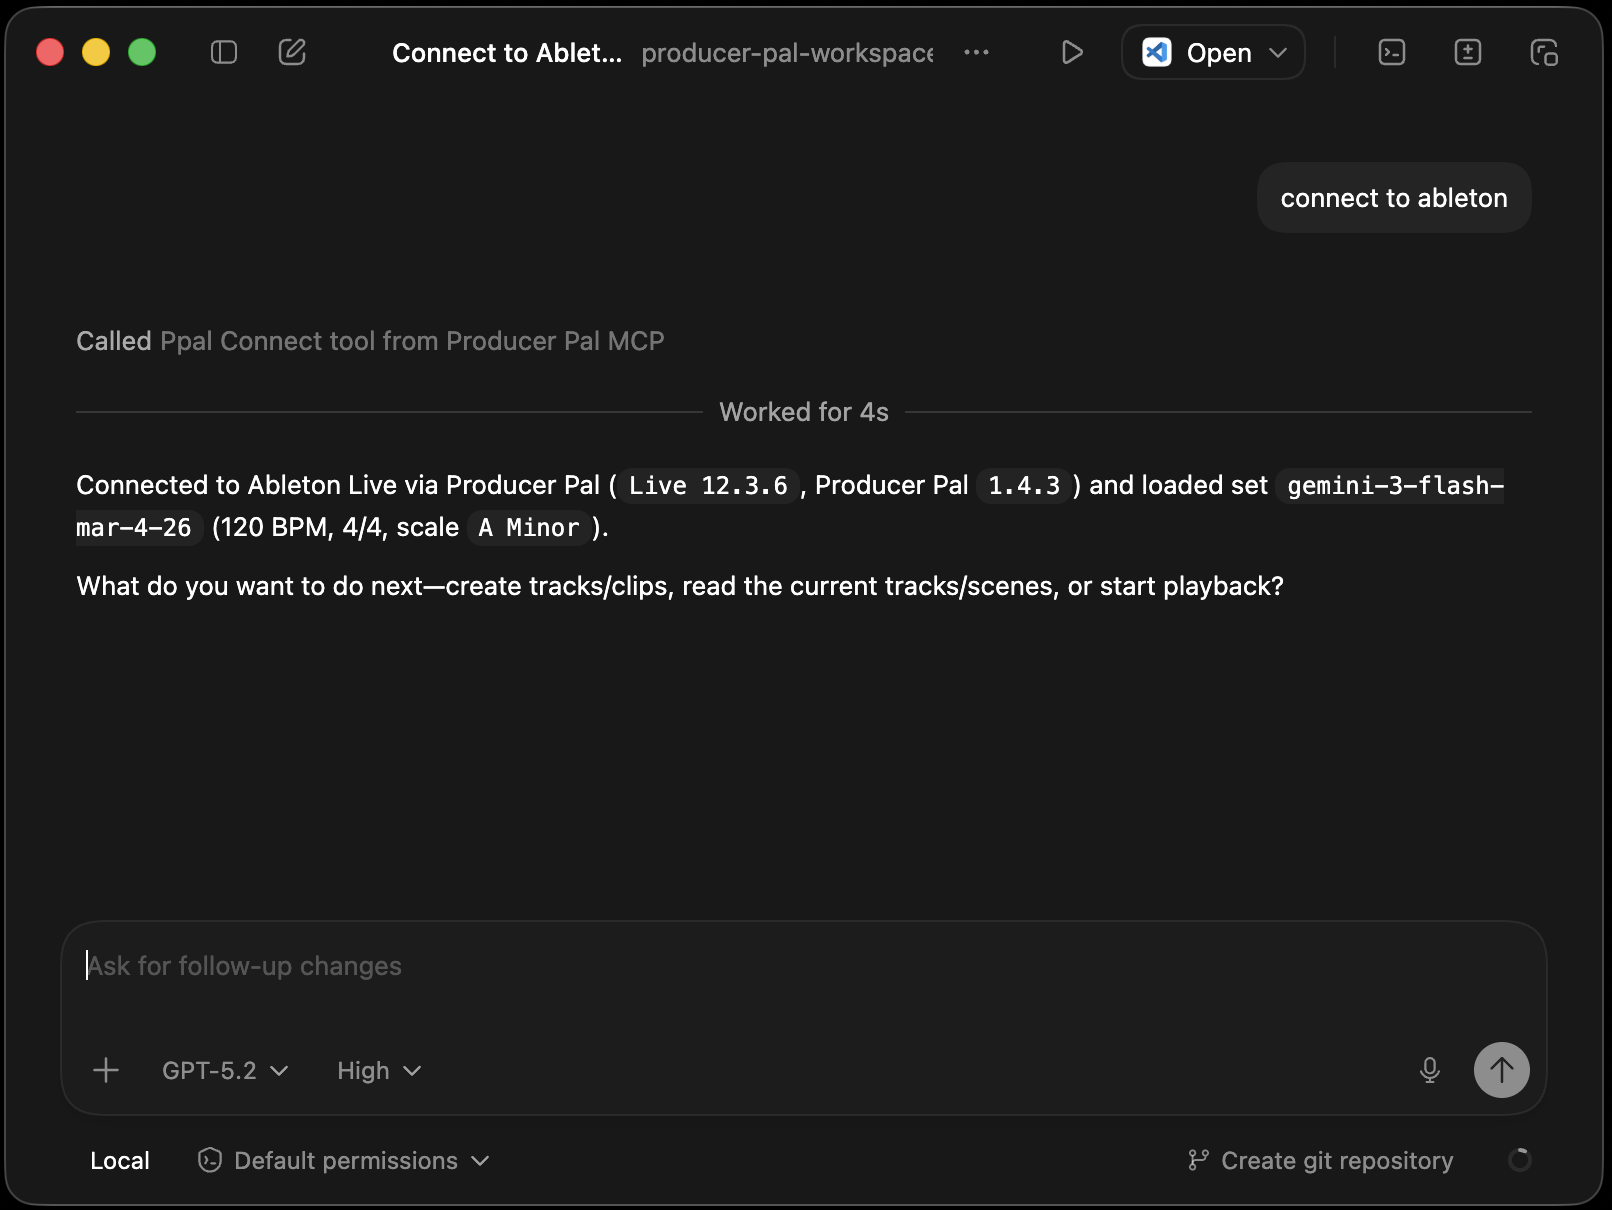
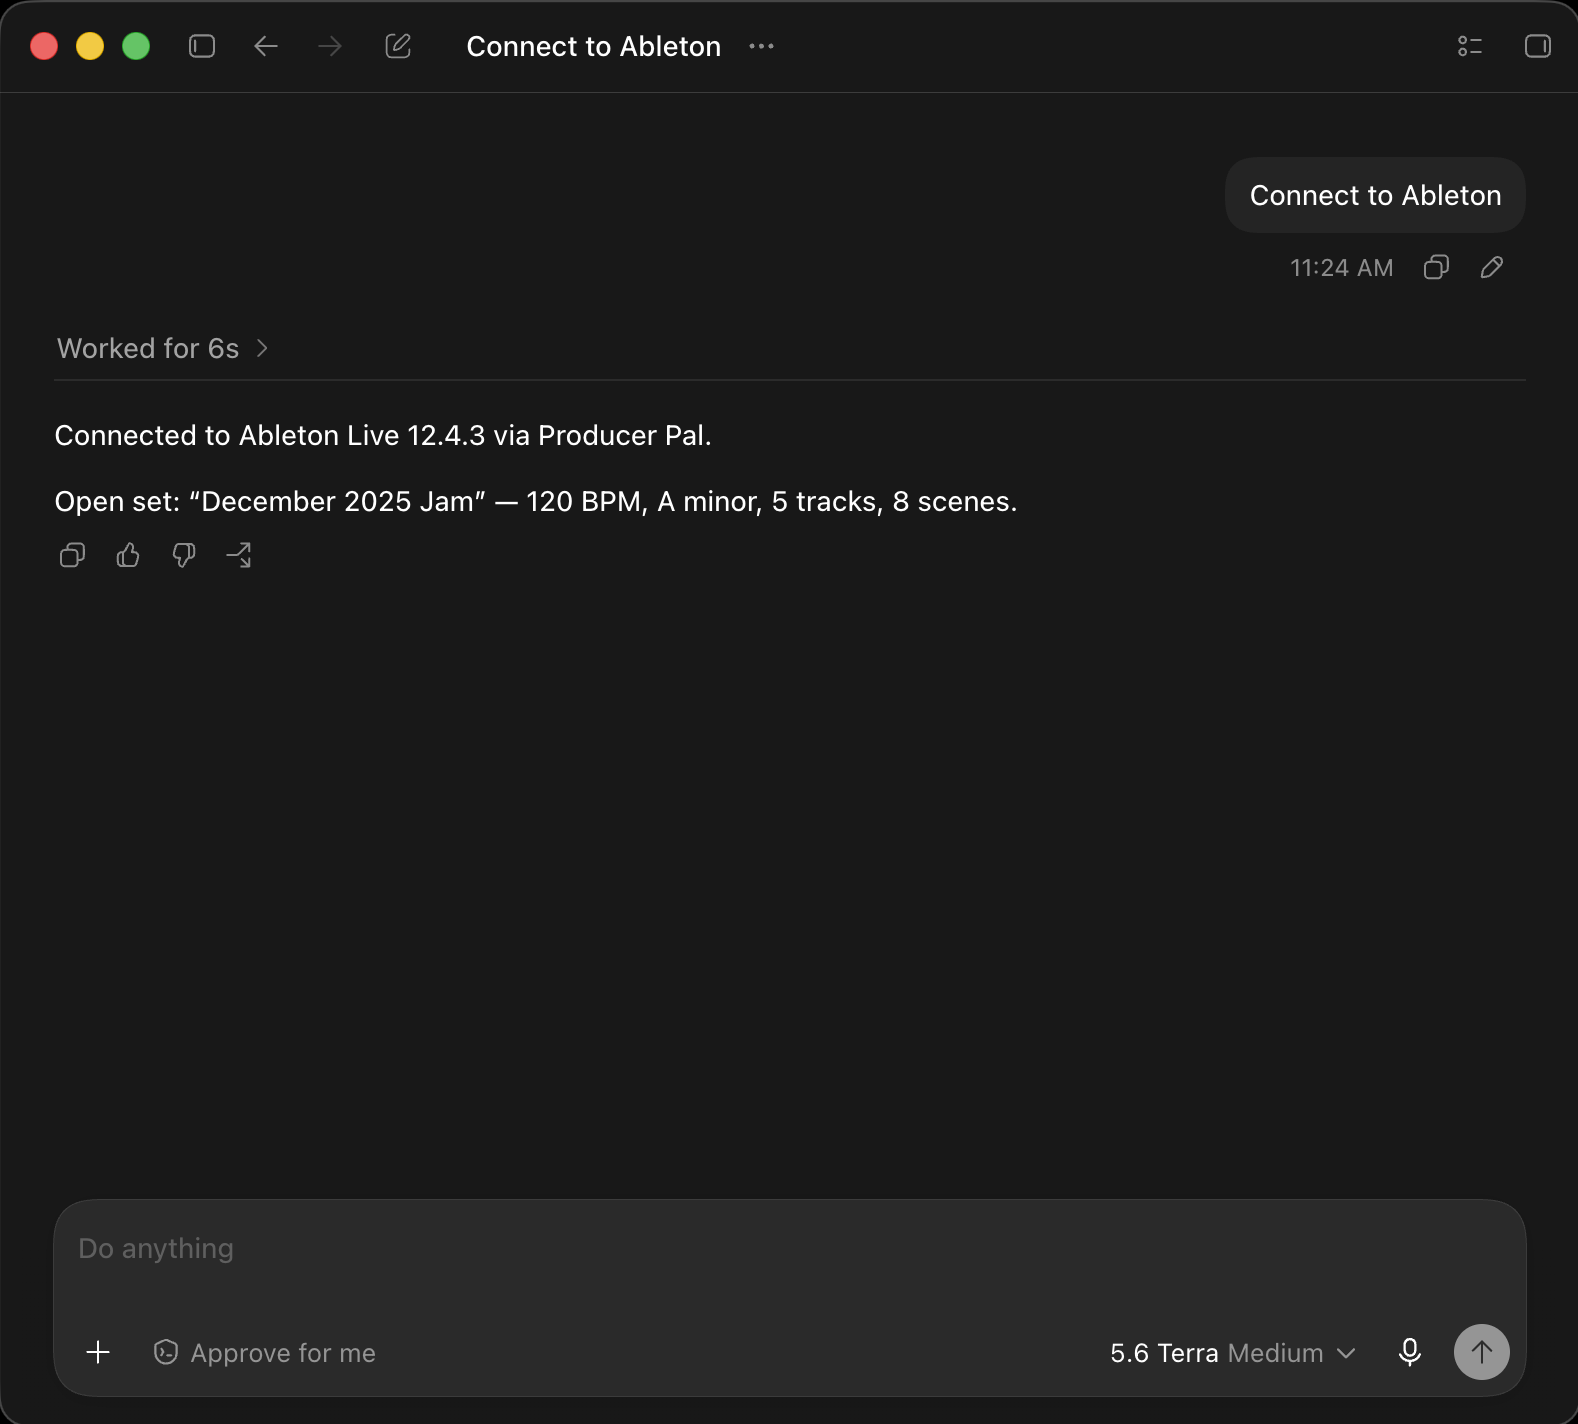
docs: update the ChatGPT app page for the unified desktop app
Producer Pal only works in the app's Codex mode — MCP servers live on the Codex
side and the tools aren't reachable from ChatGPT (Chat or Work). Lead with that,
and rewrite the setup around Codex: the mode dropdown, the Choose project
picker, and fresh conversation screenshots.

Also note that the download page offers ChatGPT Classic alongside the new app,
and that MCP servers need a paid plan.

diff --git a/docs/installation/chatgpt-app.md b/docs/installation/chatgpt-app.md
@@ -3,11 +3,22 @@
 OpenAI's ChatGPT desktop app is an easy way to use Producer Pal with an OpenAI
 account.
 
+::: warning Use Codex mode, not ChatGPT
+
+Producer Pal only works in the app's **Codex** mode. MCP servers are configured
+on the Codex side, and the tools aren't reachable from ChatGPT (Chat or Work).
+Switch with the mode dropdown at the top of the sidebar:
+
+<img src="/img/chatgpt-app-codex-mode.png" alt="Switching to Codex mode" width="300"/>
+
+:::
+
 ::: info Formerly the Codex app
 
 In July 2026, OpenAI merged the Codex app into the ChatGPT desktop app, which
-now has Chat, Work, and Codex together in one app. If you had the Codex app
-installed, it updated into this app and kept your projects and settings.
+now has ChatGPT (Chat and Work) and Codex together in one app. If you had the
+Codex app installed, it updated into this app and kept your projects and
+settings.
 
 The older ChatGPT desktop app is now called "ChatGPT Classic". Setup there is
 similar, but it's no longer officially supported — the new app is recommended.
@@ -28,12 +39,9 @@ The ChatGPT desktop app runs on macOS (Apple Silicon) and Windows. On Linux, see
 - [Node.js 22+](https://nodejs.org/en/download) (required by Codex; Producer Pal
   itself only needs 20+)
 - [ChatGPT desktop app](https://chatgpt.com/download) (requires an OpenAI
-  account)
-
-<!-- TODO: confirm the download URL above lands on the new unified desktop app (not ChatGPT Classic). -->
-<!-- TODO: OpenAI says Chat, Work, and Codex are on every plan including Free. Confirm Producer Pal
-     actually works on a free account (MCP servers may be gated, and free usage limits may make it
-     impractical). If it needs a paid plan, say so here. -->
+  account) — use the main download button. The same page also offers **ChatGPT
+  Classic**, which is the older app, not this one.
+- A paid ChatGPT plan (MCP servers aren't available on the free plan)
 
 ## Installation Steps
 
@@ -68,9 +76,7 @@ Set **Type** to **Streamable HTTP** and fill in:
 
 <img src="/img/chatgpt-app-add-mcp-http.png" alt="Streamable HTTP MCP configuration for Producer Pal" width="650"/>
 
-Save the server, then click **Restart** so ChatGPT picks it up.
-
-<!-- TODO: confirm the exact Save/Restart wording and whether a restart of the whole app is needed. -->
+Save the server, then select **Restart** so ChatGPT picks it up.
 
 ::: tip Shared with Codex CLI
 
@@ -82,20 +88,15 @@ place makes it available in the others.
 
 ### 3. Start a Conversation
 
-Before your first message, the app asks you to choose where to work. It's
-recommended to use an empty folder for Producer Pal sessions (shown as
-`producer-pal-workspace` in the screenshot). Feel free to put reference
-documents in this folder, such as common workflow instructions or details of
-your preferred musical style and production techniques.
+Check that the mode dropdown at the top of the sidebar says **Codex**.
 
-<!-- TODO: the new app offers Chat, Work, and Codex for a task. Confirm which one to tell people to
-     use with Producer Pal (Chat is the natural fit for music, but MCP servers are configured on the
-     Codex host, so they may only be available in the Codex view). Rewrite this section around the
-     answer, including whether choosing a folder is still required. -->
+Codex works in a project, chosen with **Choose project** above the composer. An
+empty folder is recommended for Producer Pal sessions (shown as **Producer Pal**
+in the screenshot). Feel free to put reference documents in it, such as common
+workflow instructions or details of your preferred musical style and production
+techniques.
 
 Start a conversation with "connect to ableton":
-
-<!-- TODO: replace screenshot with the new app's conversation start screen. -->
 
 <img src="/img/chatgpt-app-conversation-start.png" alt="Starting a conversation in the ChatGPT app" width="600"/>
 
@@ -103,15 +104,9 @@ Start a conversation with "connect to ableton":
 
 You should see a successful connection to Ableton Live:
 
-<!-- TODO: replace screenshot with the new app's connected state. -->
-
 <img src="/img/chatgpt-app-connected.png" alt="ChatGPT app successfully connected to Producer Pal" width="600"/>
 
-You can also type `/mcp` in the composer to list connected MCP servers and
-confirm the Producer Pal tools are available.
-
-<!-- TODO: confirm /mcp works in the desktop app (it is documented, but there are reports of it
-     listing servers without exposing their tools). -->
+You can also type `/mcp` in the composer to see the connected MCP servers.
 
 ## Troubleshooting
 
